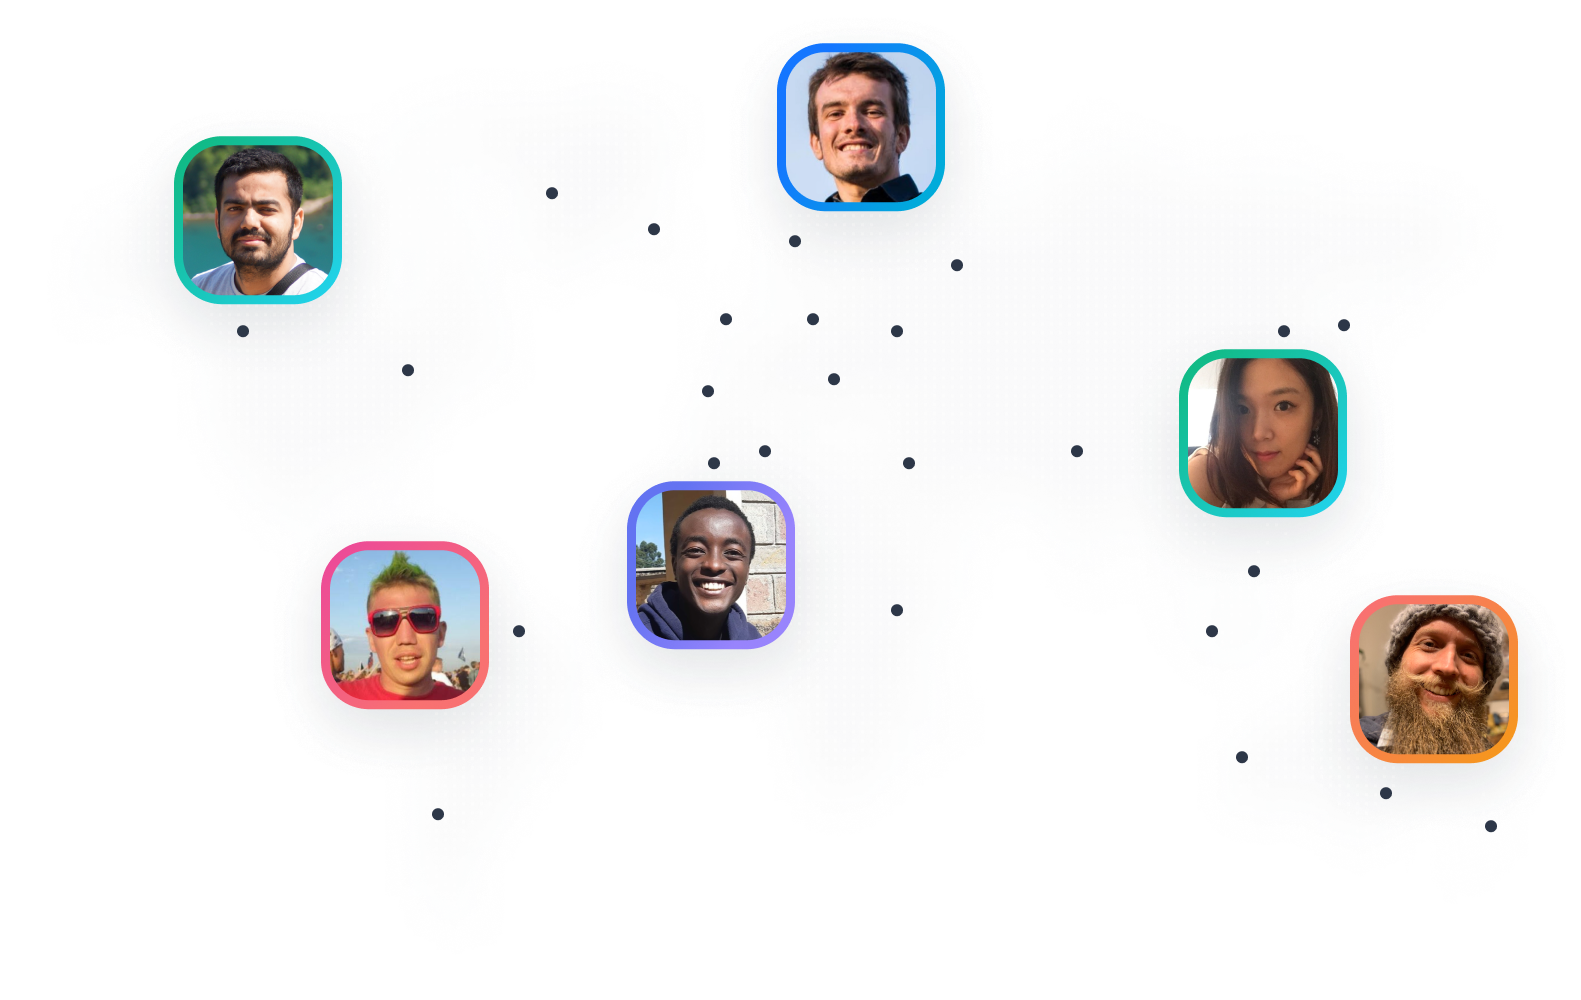
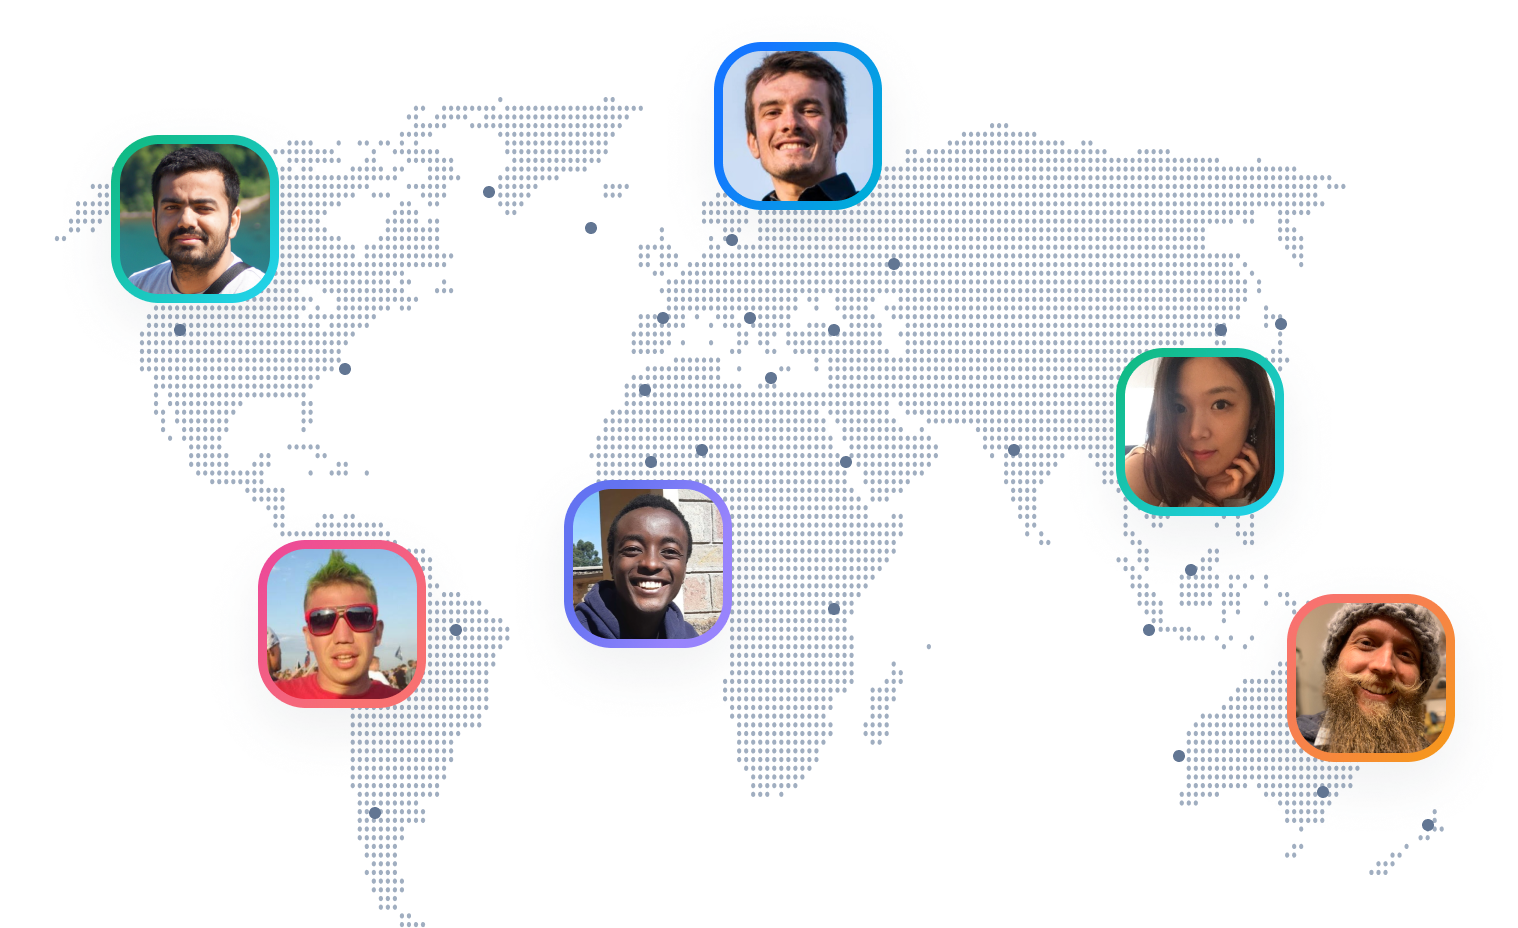
finished website

diff --git a/docs/pages/index.tsx b/docs/pages/index.tsx
@@ -792,6 +792,141 @@ export const lists = createSchema({
             </li>
           </ul>
         </section>
+
+        <section
+          css={mq({
+            display: 'grid',
+            gridTemplateColumns: ['1fr', null, '1fr 1fr', '1.2fr 0.8fr'],
+            gap: '1rem',
+            marginTop: '6.25rem',
+            border: '1px solid var(--border)',
+            borderRadius: '1rem',
+            padding: '2rem',
+            boxShadow: '0 1.4375rem 2.8125rem var(--shadow)',
+          })}
+        >
+          <div
+            css={{
+              display: 'grid',
+              '& > div': {
+                display: 'inline-grid !important',
+                justifyContent: 'center',
+                alignSelf: 'center',
+              },
+            }}
+          >
+            <Image
+              src={communityMap}
+              alt="A map of our awesome contributors"
+              width={1518}
+              height={928}
+            />
+          </div>
+          <div>
+            <Type as="h2" look="heading36">
+              Learn with others in a supportive community
+            </Type>
+            <Type as="p" look="body18" margin="2rem 0">
+              Share your work and get the help you need in the Keystone community Slack: an
+              inclusive space to share ideas and explore what‘s possible.
+            </Type>
+            <Button
+              as="a"
+              href="https://community.keystonejs.com"
+              target="_blank"
+              rel="noopener noreferrer"
+            >
+              Join the community Slack <ArrowR />
+            </Button>
+            <ul
+              css={{
+                listStyle: 'none',
+                margin: '2rem 0 0 0',
+                padding: 0,
+                display: 'inline-block',
+                '& li': {
+                  display: 'inline-block',
+                  marginRight: '1rem',
+                },
+                '& svg': {
+                  height: '1rem',
+                  marginRight: '0.5rem',
+                },
+              }}
+            >
+              <li>
+                <Tick grad="grad1" />
+                <Type look="body18">1900+ members</Type>
+              </li>
+              <li>
+                <Tick grad="grad1" />
+                <Type look="body18">Personalized support</Type>
+              </li>
+            </ul>
+          </div>
+        </section>
+
+        <section
+          css={{
+            marginTop: '12.5rem',
+            textAlign: 'center',
+          }}
+        >
+          <Type as="h2" look="heading64" margin="0 auto">
+            Start building <Highlight look="grad4">today.</Highlight>
+          </Type>
+          <ul
+            css={{
+              listStyle: 'none',
+              margin: '1rem 0 0 0',
+              padding: 0,
+              display: 'flex',
+              gap: '1rem',
+              justifyContent: 'center',
+              gap: '1rem',
+              flexWrap: 'wrap',
+              '& > li': {
+                display: 'inline-block',
+                padding: 0,
+              },
+              '& svg': {
+                height: '1rem',
+                marginRight: '1rem',
+              },
+            }}
+          >
+            <li>
+              <Tick grad="grad4" />
+              <Type look="body18" color="var(--muted)">
+                5 minute starters
+              </Type>
+            </li>
+            <li>
+              <Tick grad="grad4" />
+              <Type look="body18" color="var(--muted)">
+                Example projects
+              </Type>
+            </li>
+            <li>
+              <Tick grad="grad4" />
+              <Type look="body18" color="var(--muted)">
+                Free forever
+              </Type>
+            </li>
+            <li>
+              <Tick grad="grad4" />
+              <Type look="body18" color="var(--muted)">
+                No lock-in
+              </Type>
+            </li>
+          </ul>
+          <CodeBox code="yarn create keystone-app" css={{ margin: '2rem 0' }} />
+          <div>
+            <Button as="a" href="/docs">
+              Get started <ArrowR />
+            </Button>
+          </div>
+        </section>
       </MWrapper>
     </Page>
   );

diff --git a/docs/components/primitives/Type.tsx b/docs/components/primitives/Type.tsx
@@ -8,7 +8,7 @@ const common = {
   brand: {
     fontFamily: 'var(--font-brand)',
     color: 'var(--text-heading)',
-    lineHeight: 1.428,
+    lineHeight: 1.3,
   },
   body: {
     fontFamily: 'var(--font-body)',
